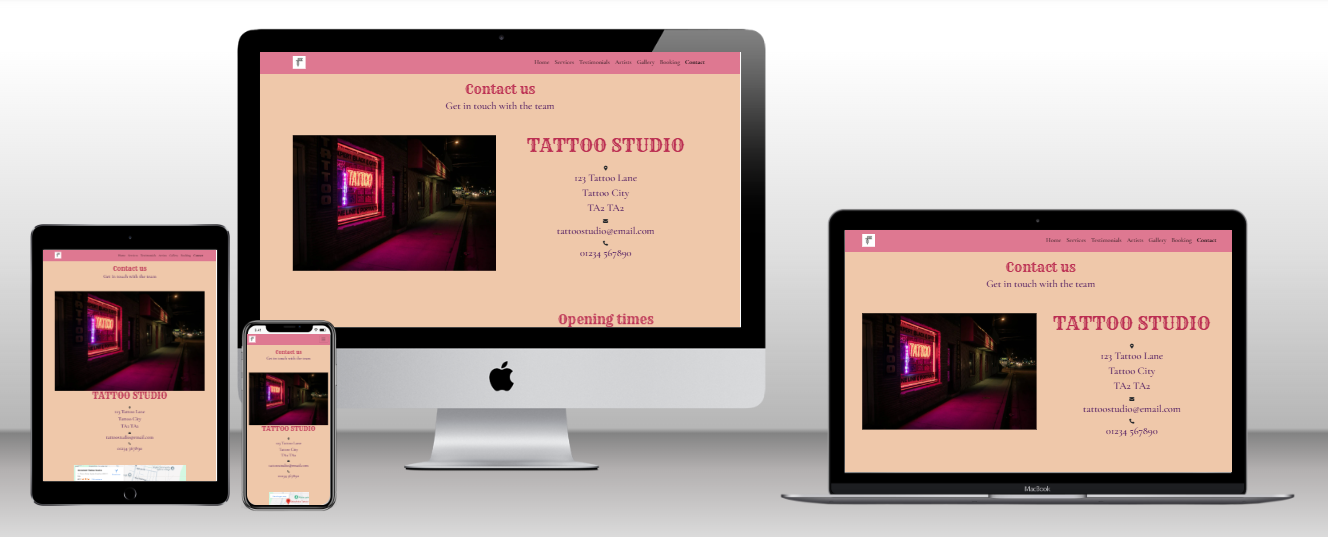
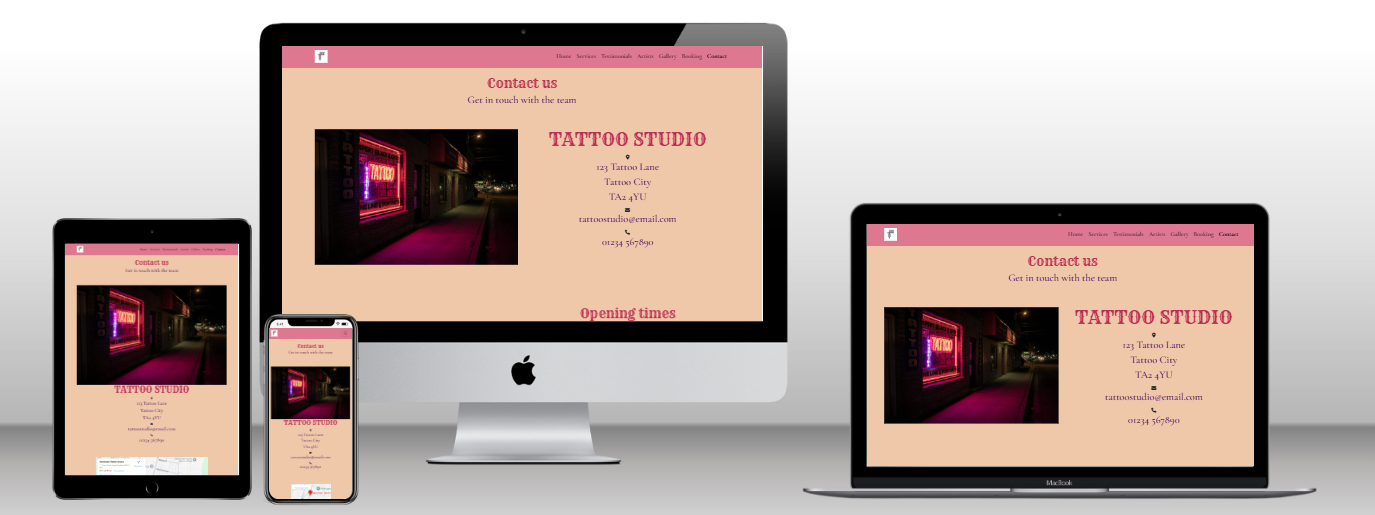
Update readme file and address on contact page

Changed region(s): [[0.0, 0.0311, 1.0, 0.9942], [0.4322, 0.3107, 0.494, 0.435], [0.4322, 0.466, 0.4631, 0.4971]]

diff --git a/contact.html b/contact.html
@@ -83,7 +83,7 @@
                 </div> 
     <!--Contact info-->            
                 <div class="col-12 col-xl-6 text-center mb-3">
-                  <h1 id="header" class="display-4 mb-4">Tattoo Studio</h1>
+                  <h1 id="header" class="display-4">Tattoo Studio</h1>
                   <i class="fa-solid fa-location-dot"></i>
                   <h2>123 Tattoo Lane</h2>
                   <h2>Tattoo City</h2>
